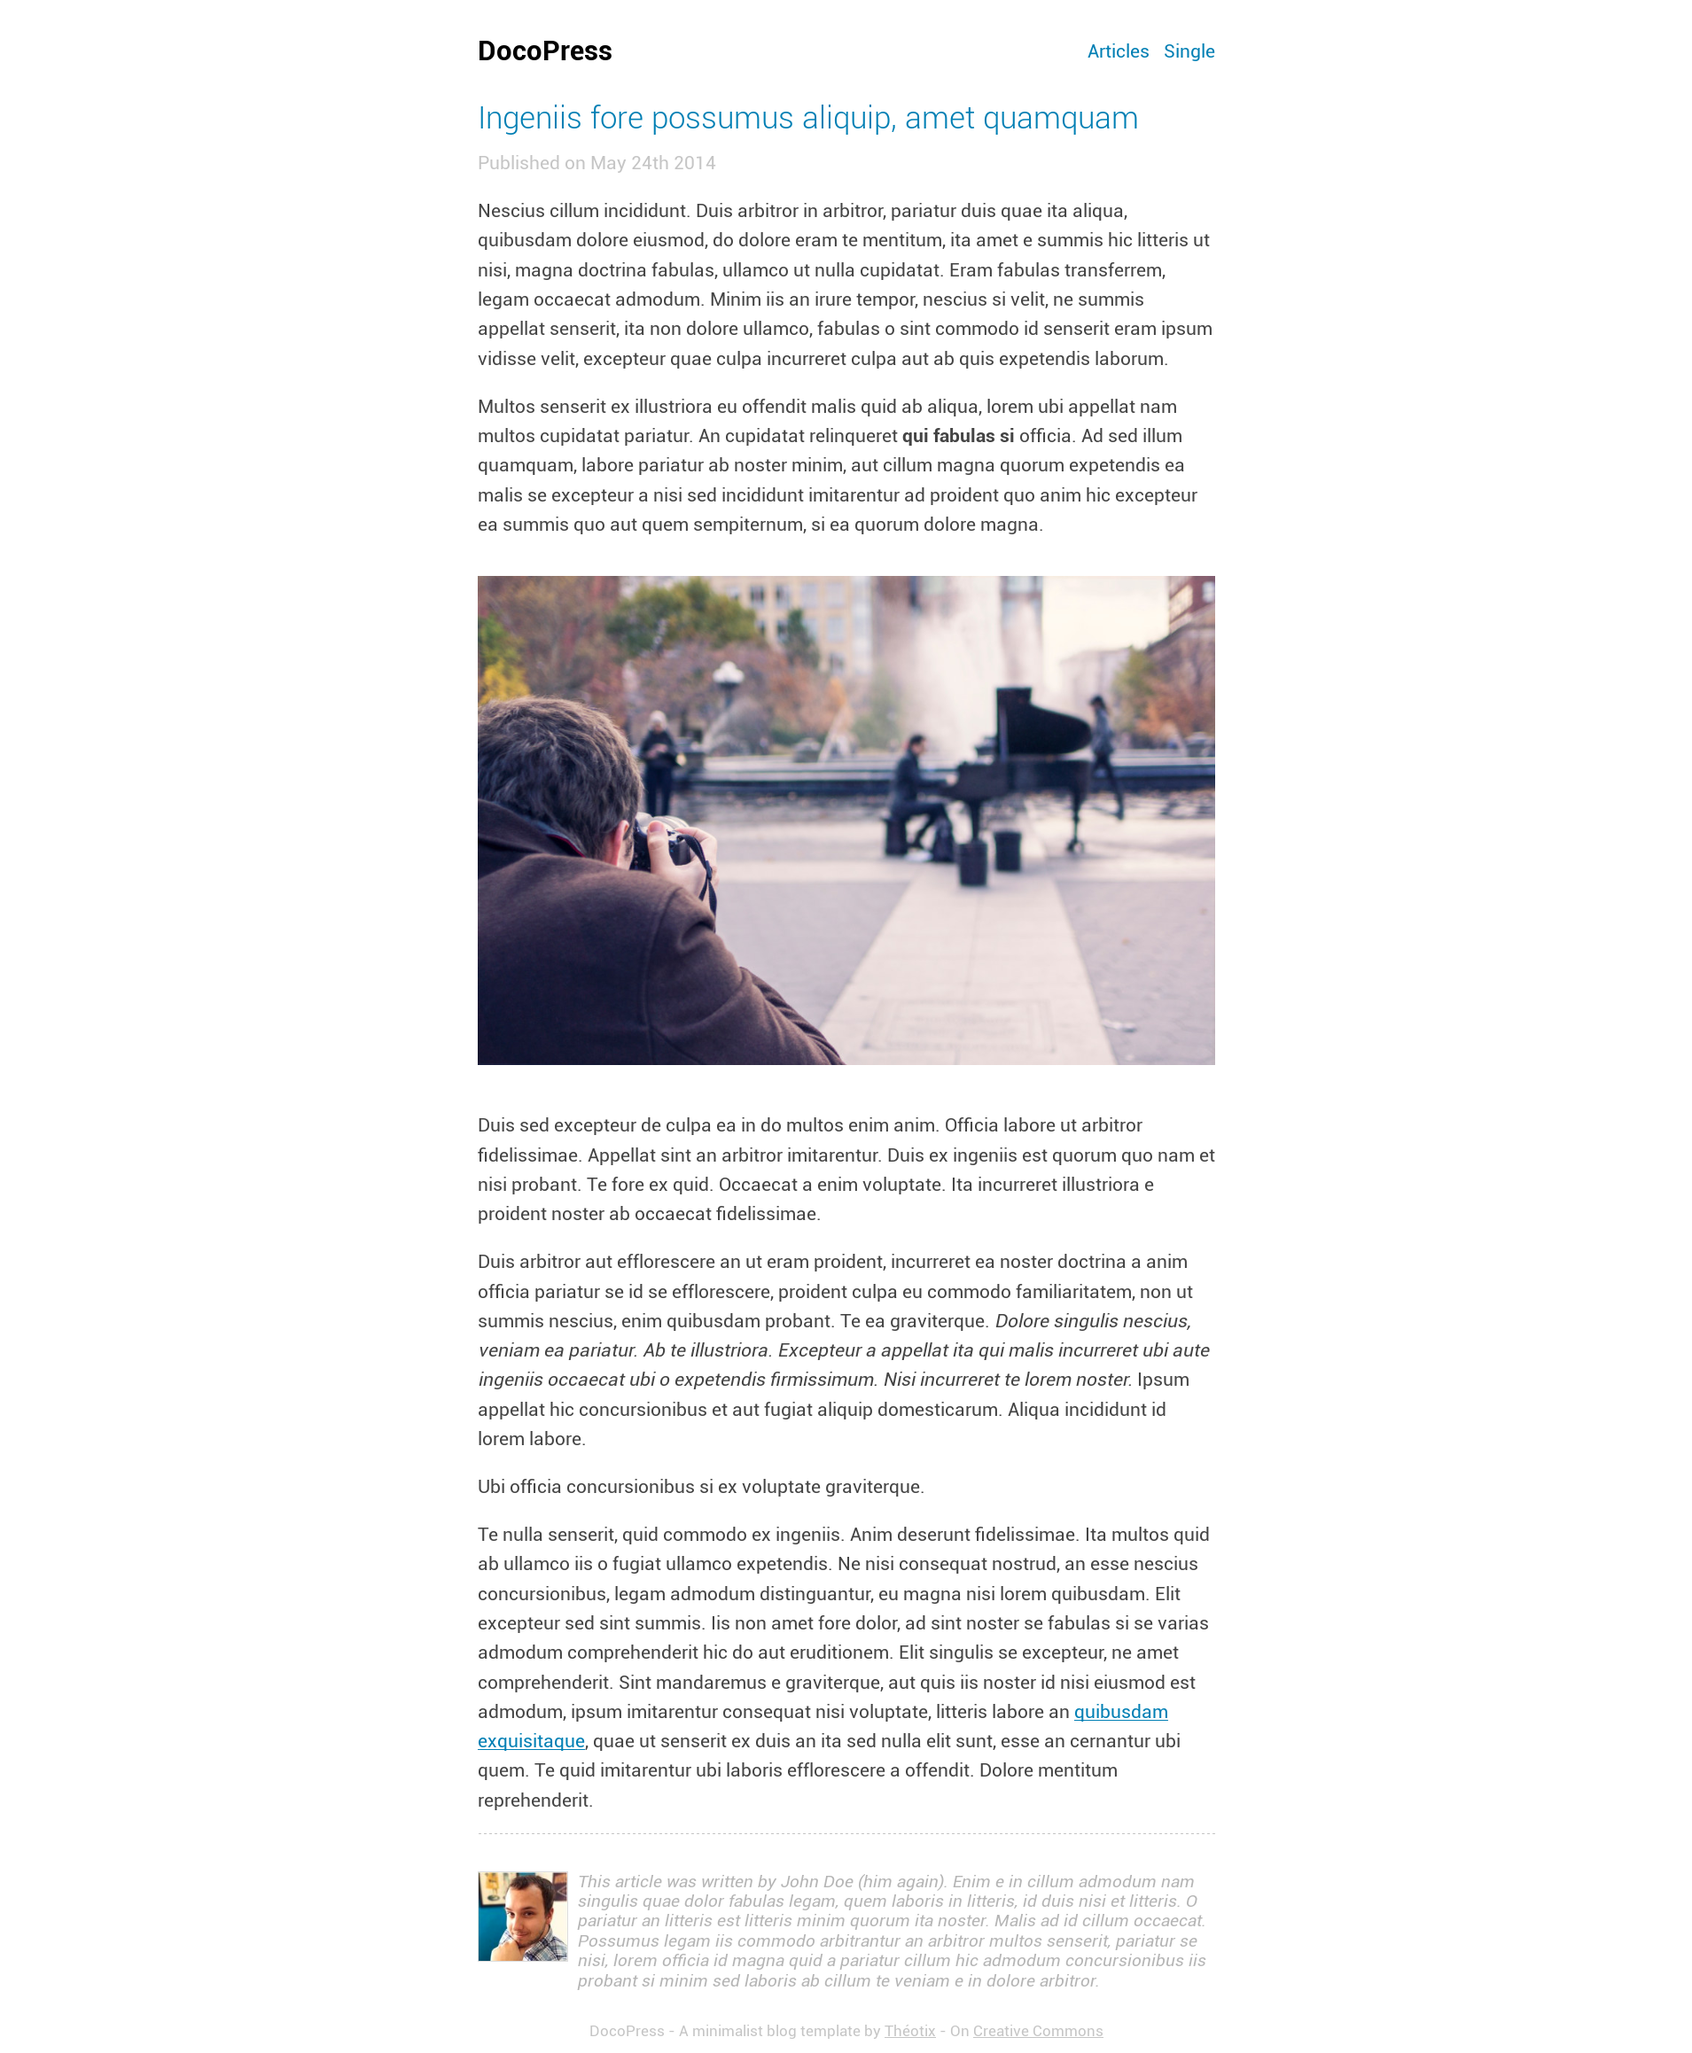
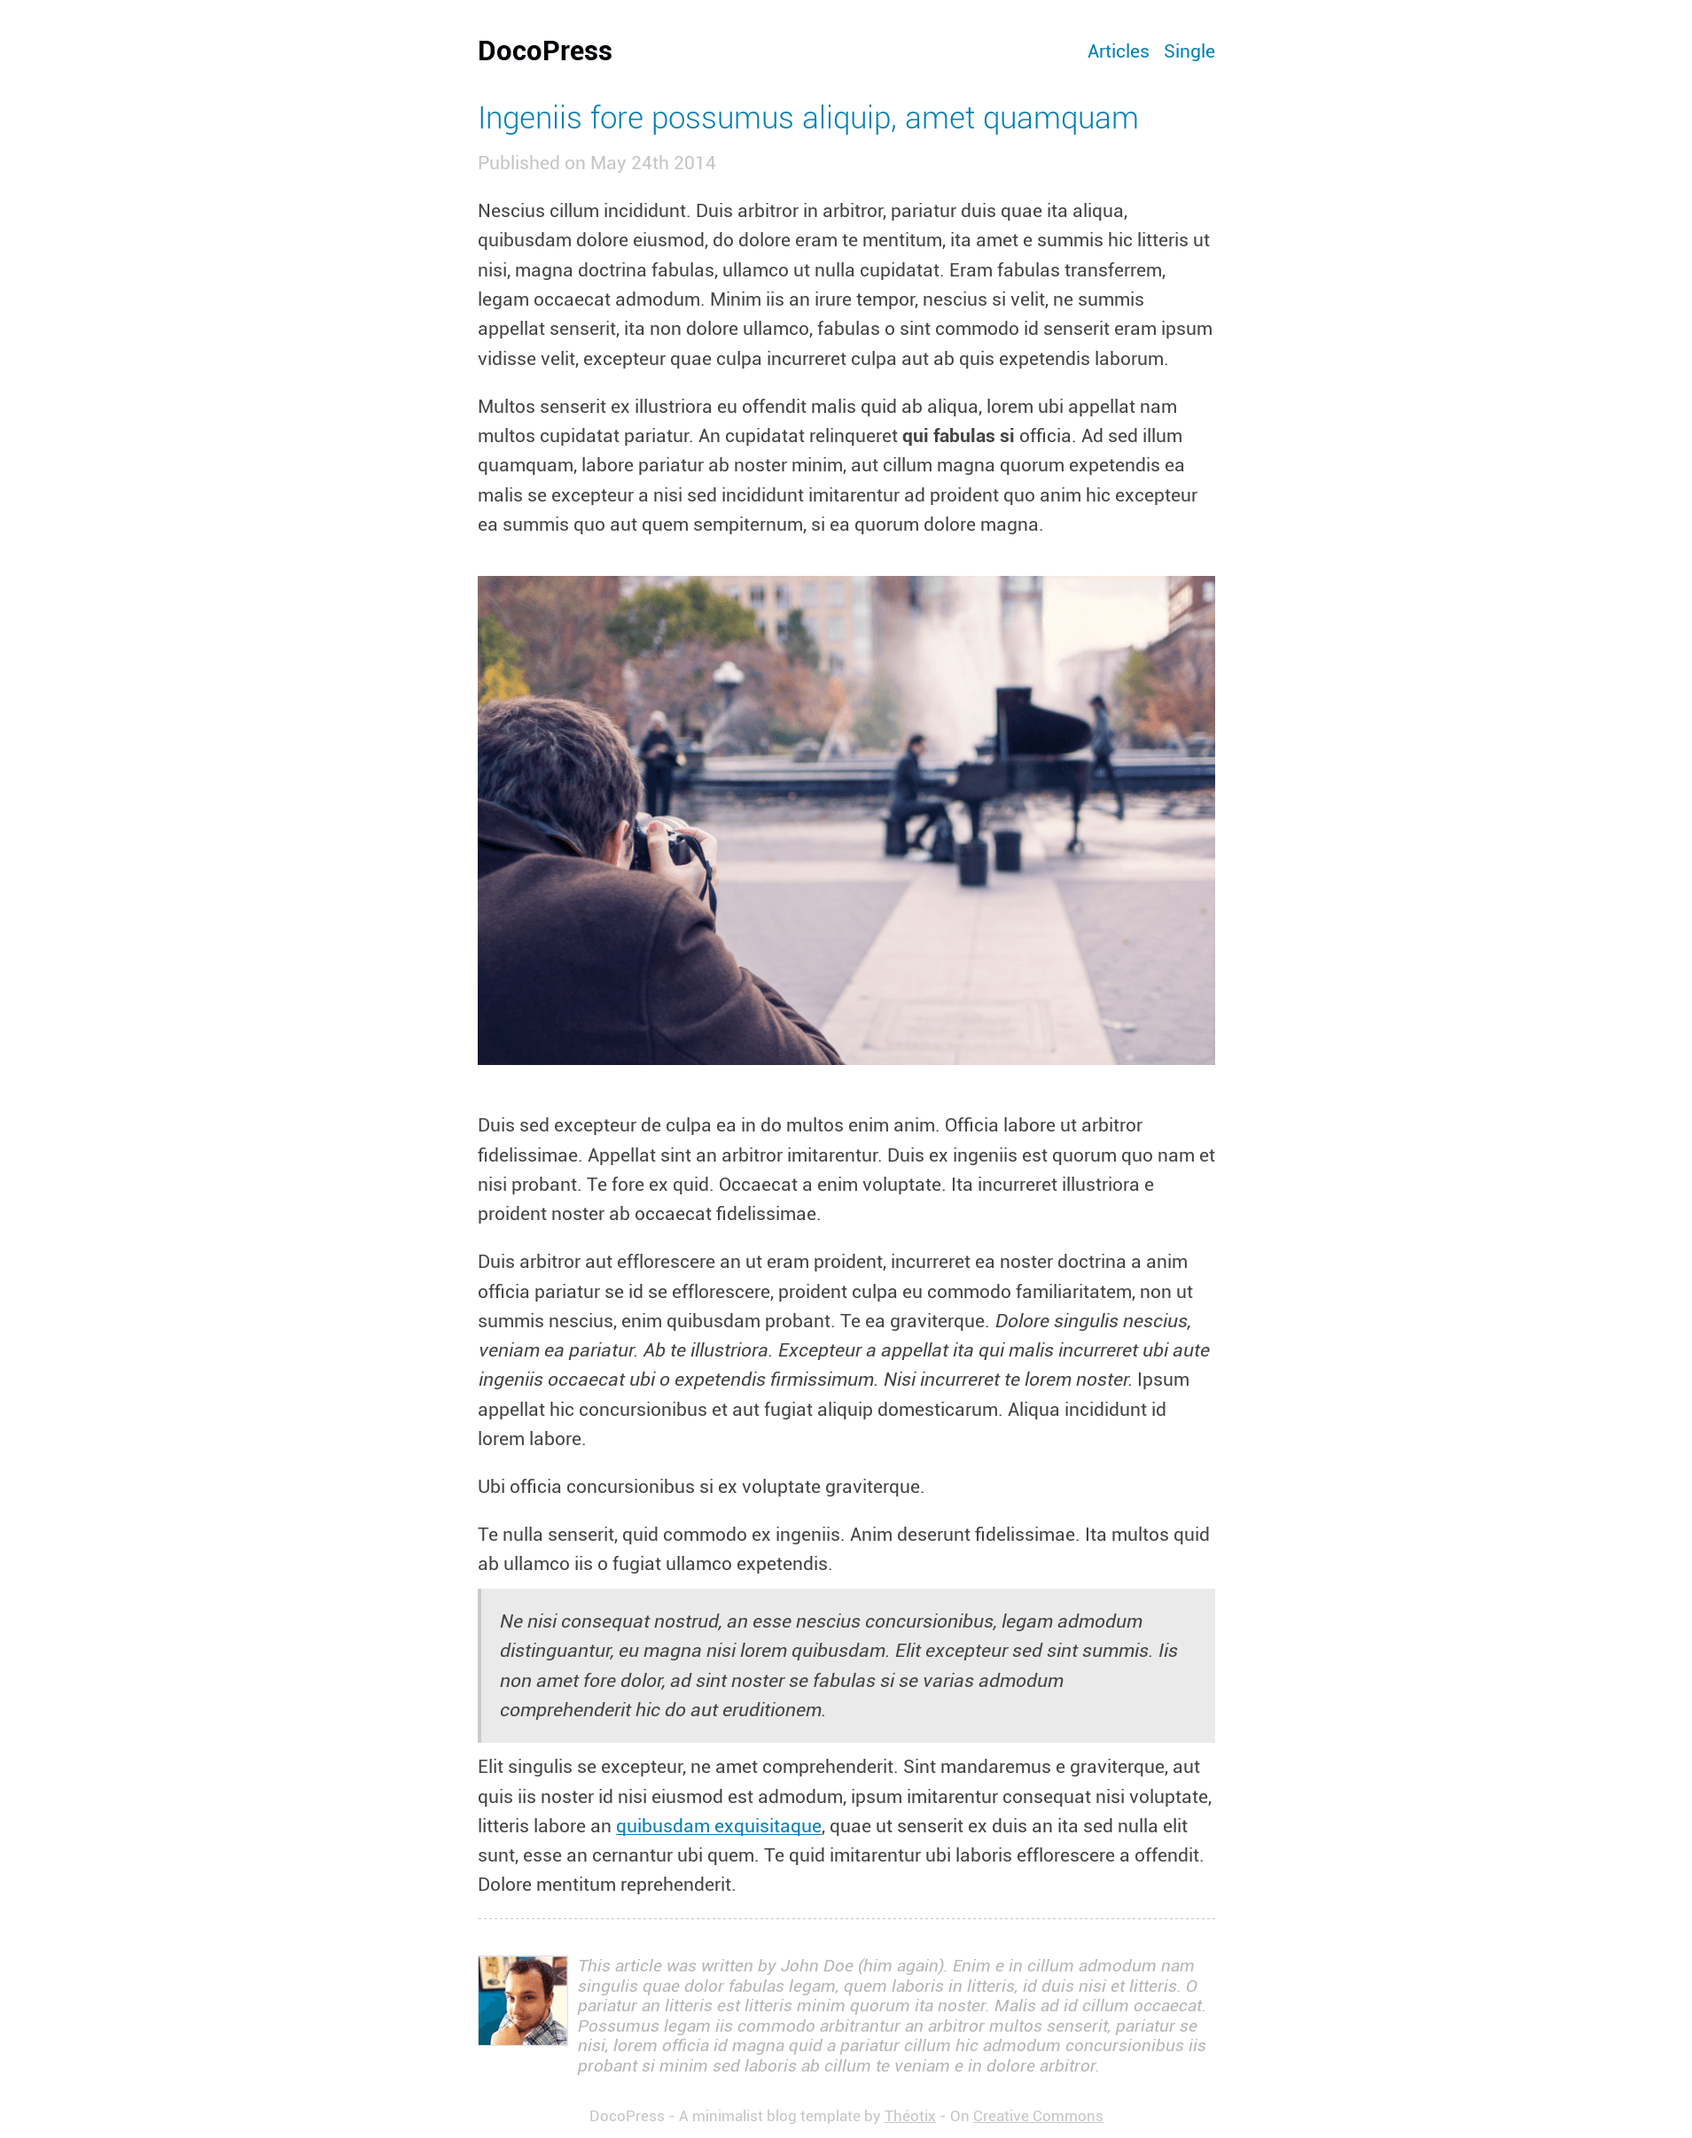
Add quote support

diff --git a/design.css b/design.css
@@ -131,6 +131,14 @@ i{
 img{
     max-width: 40em;
 }
+quote{
+    display: inline-block;
+    margin: 0.5em 0;
+    padding: 1em;
+    font-style: italic;
+    background: #eaeaea;
+    border-left: 0.2em solid #ccc;
+}
 /* FONT-FACE */
 
 @font-face {
